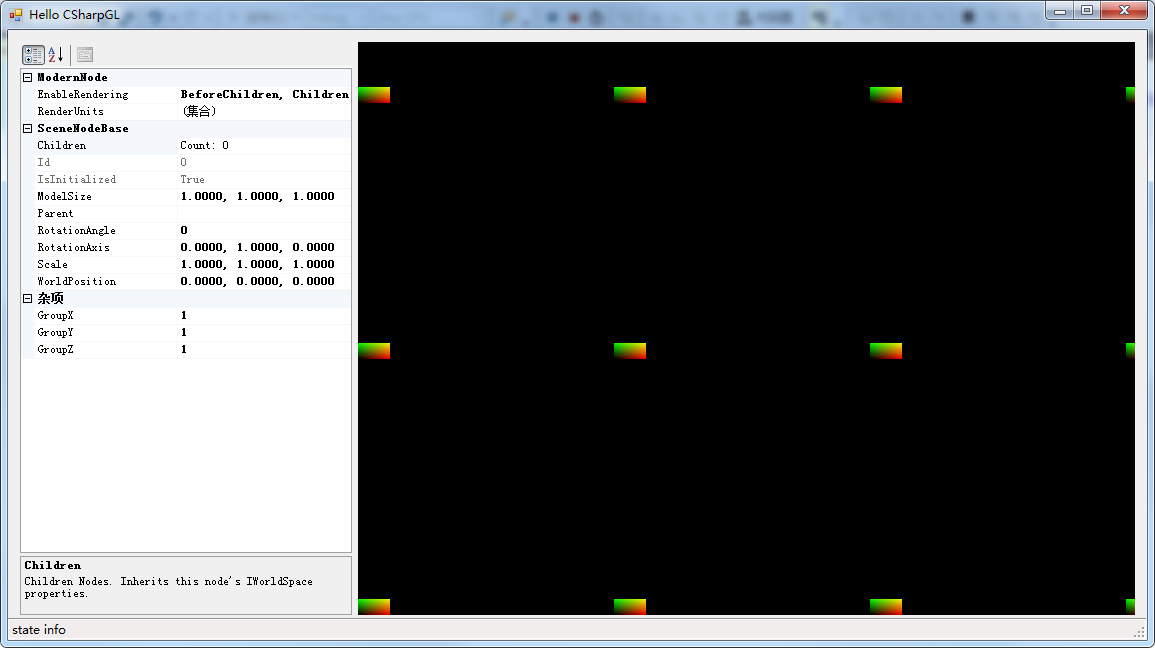
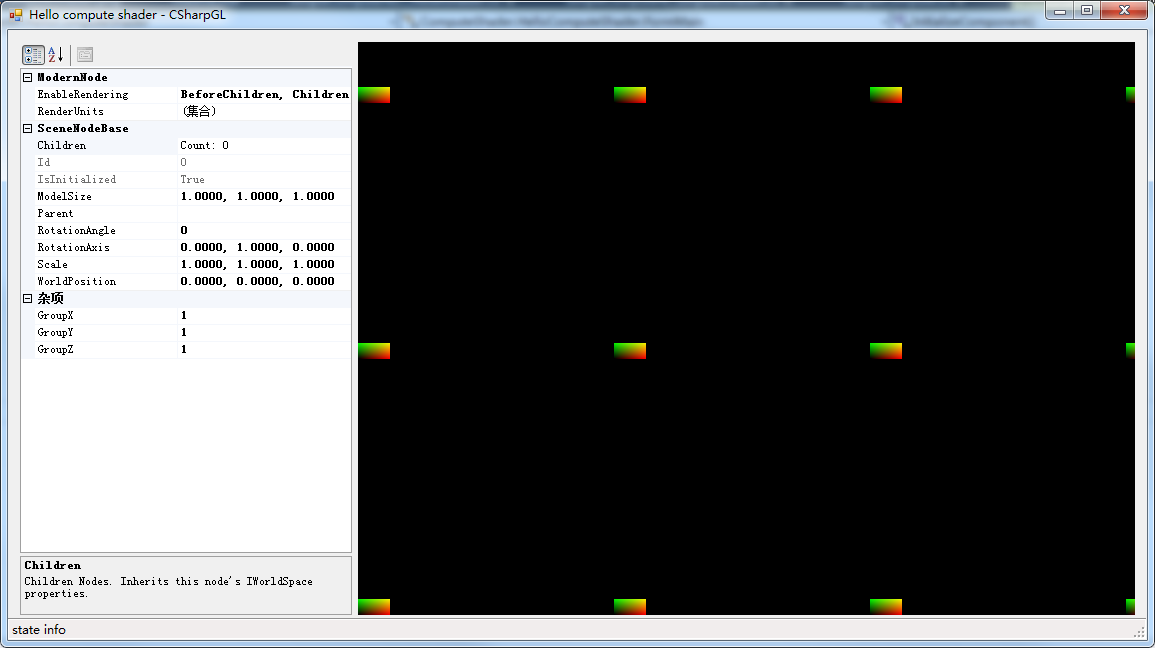
update

diff --git a/Demos/ComputeShader.HelloComputeShader/FormMain.Designer.cs b/Demos/ComputeShader.HelloComputeShader/FormMain.Designer.cs
@@ -82,7 +82,7 @@
             this.Controls.Add(this.propGrid);
             this.Controls.Add(this.winGLCanvas1);
             this.Name = "FormMain";
-            this.Text = "Hello CSharpGL";
+            this.Text = "Hello compute shader - CSharpGL";
             ((System.ComponentModel.ISupportInitialize)(this.winGLCanvas1)).EndInit();
             this.statusStrip1.ResumeLayout(false);
             this.statusStrip1.PerformLayout();
